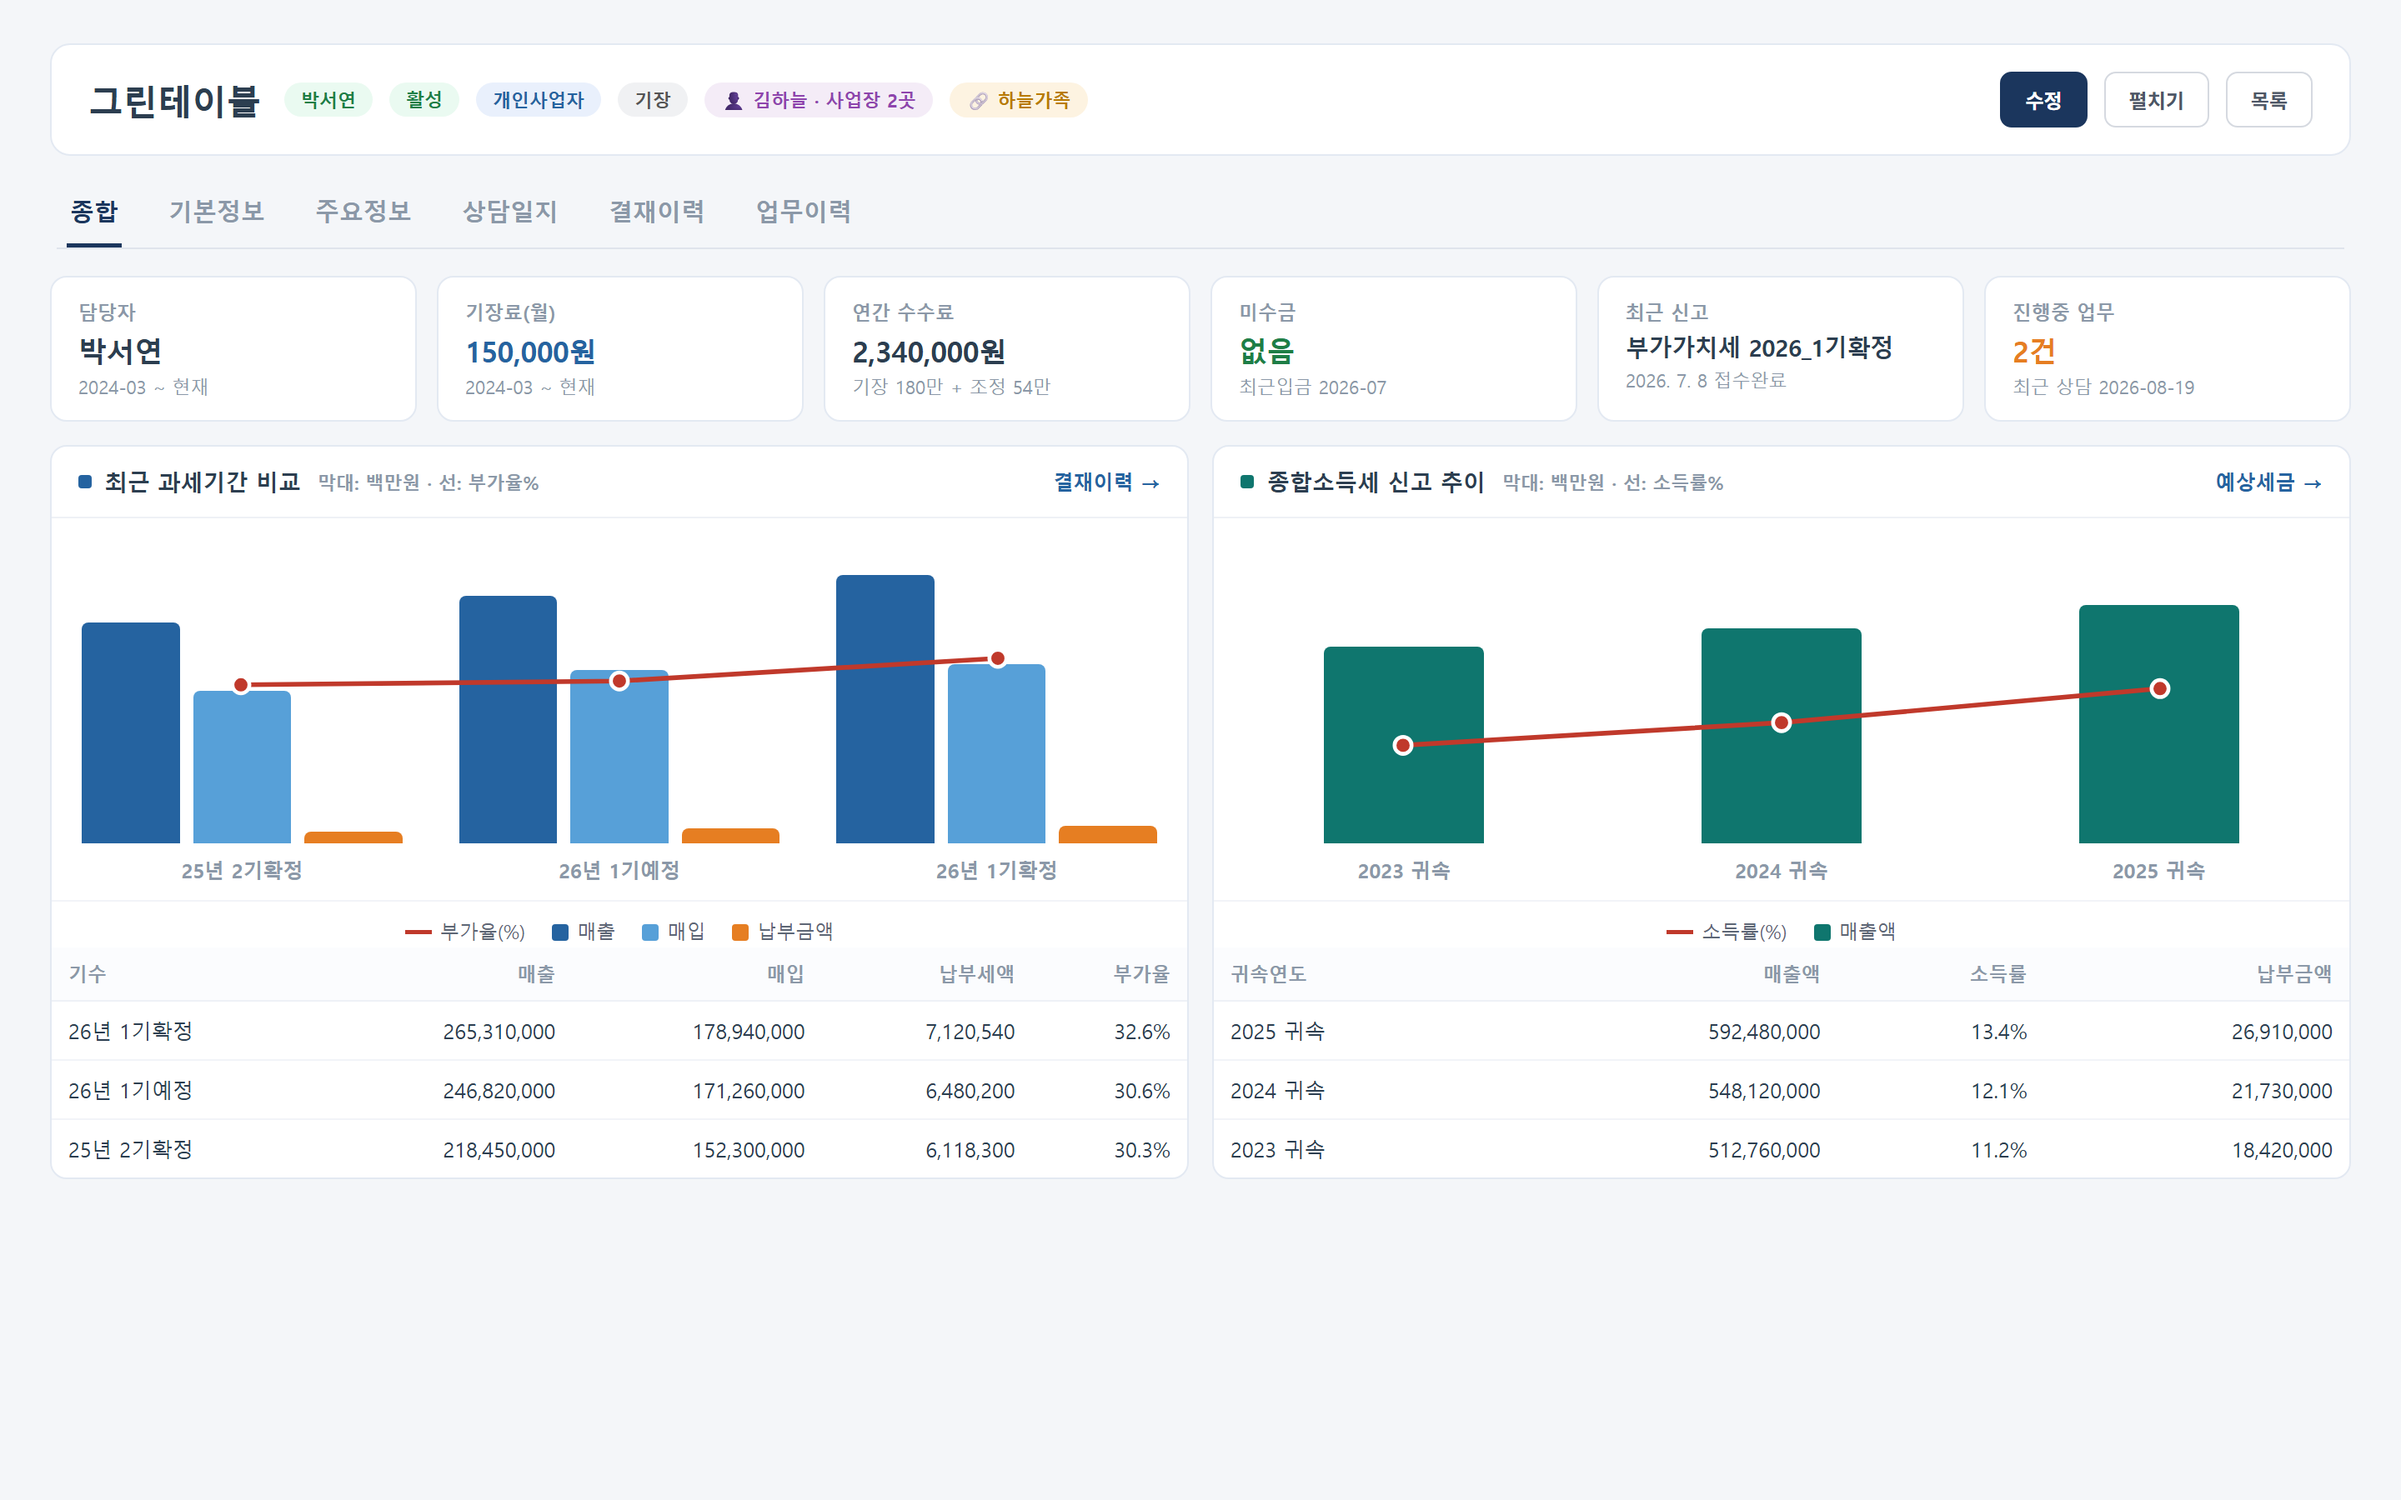
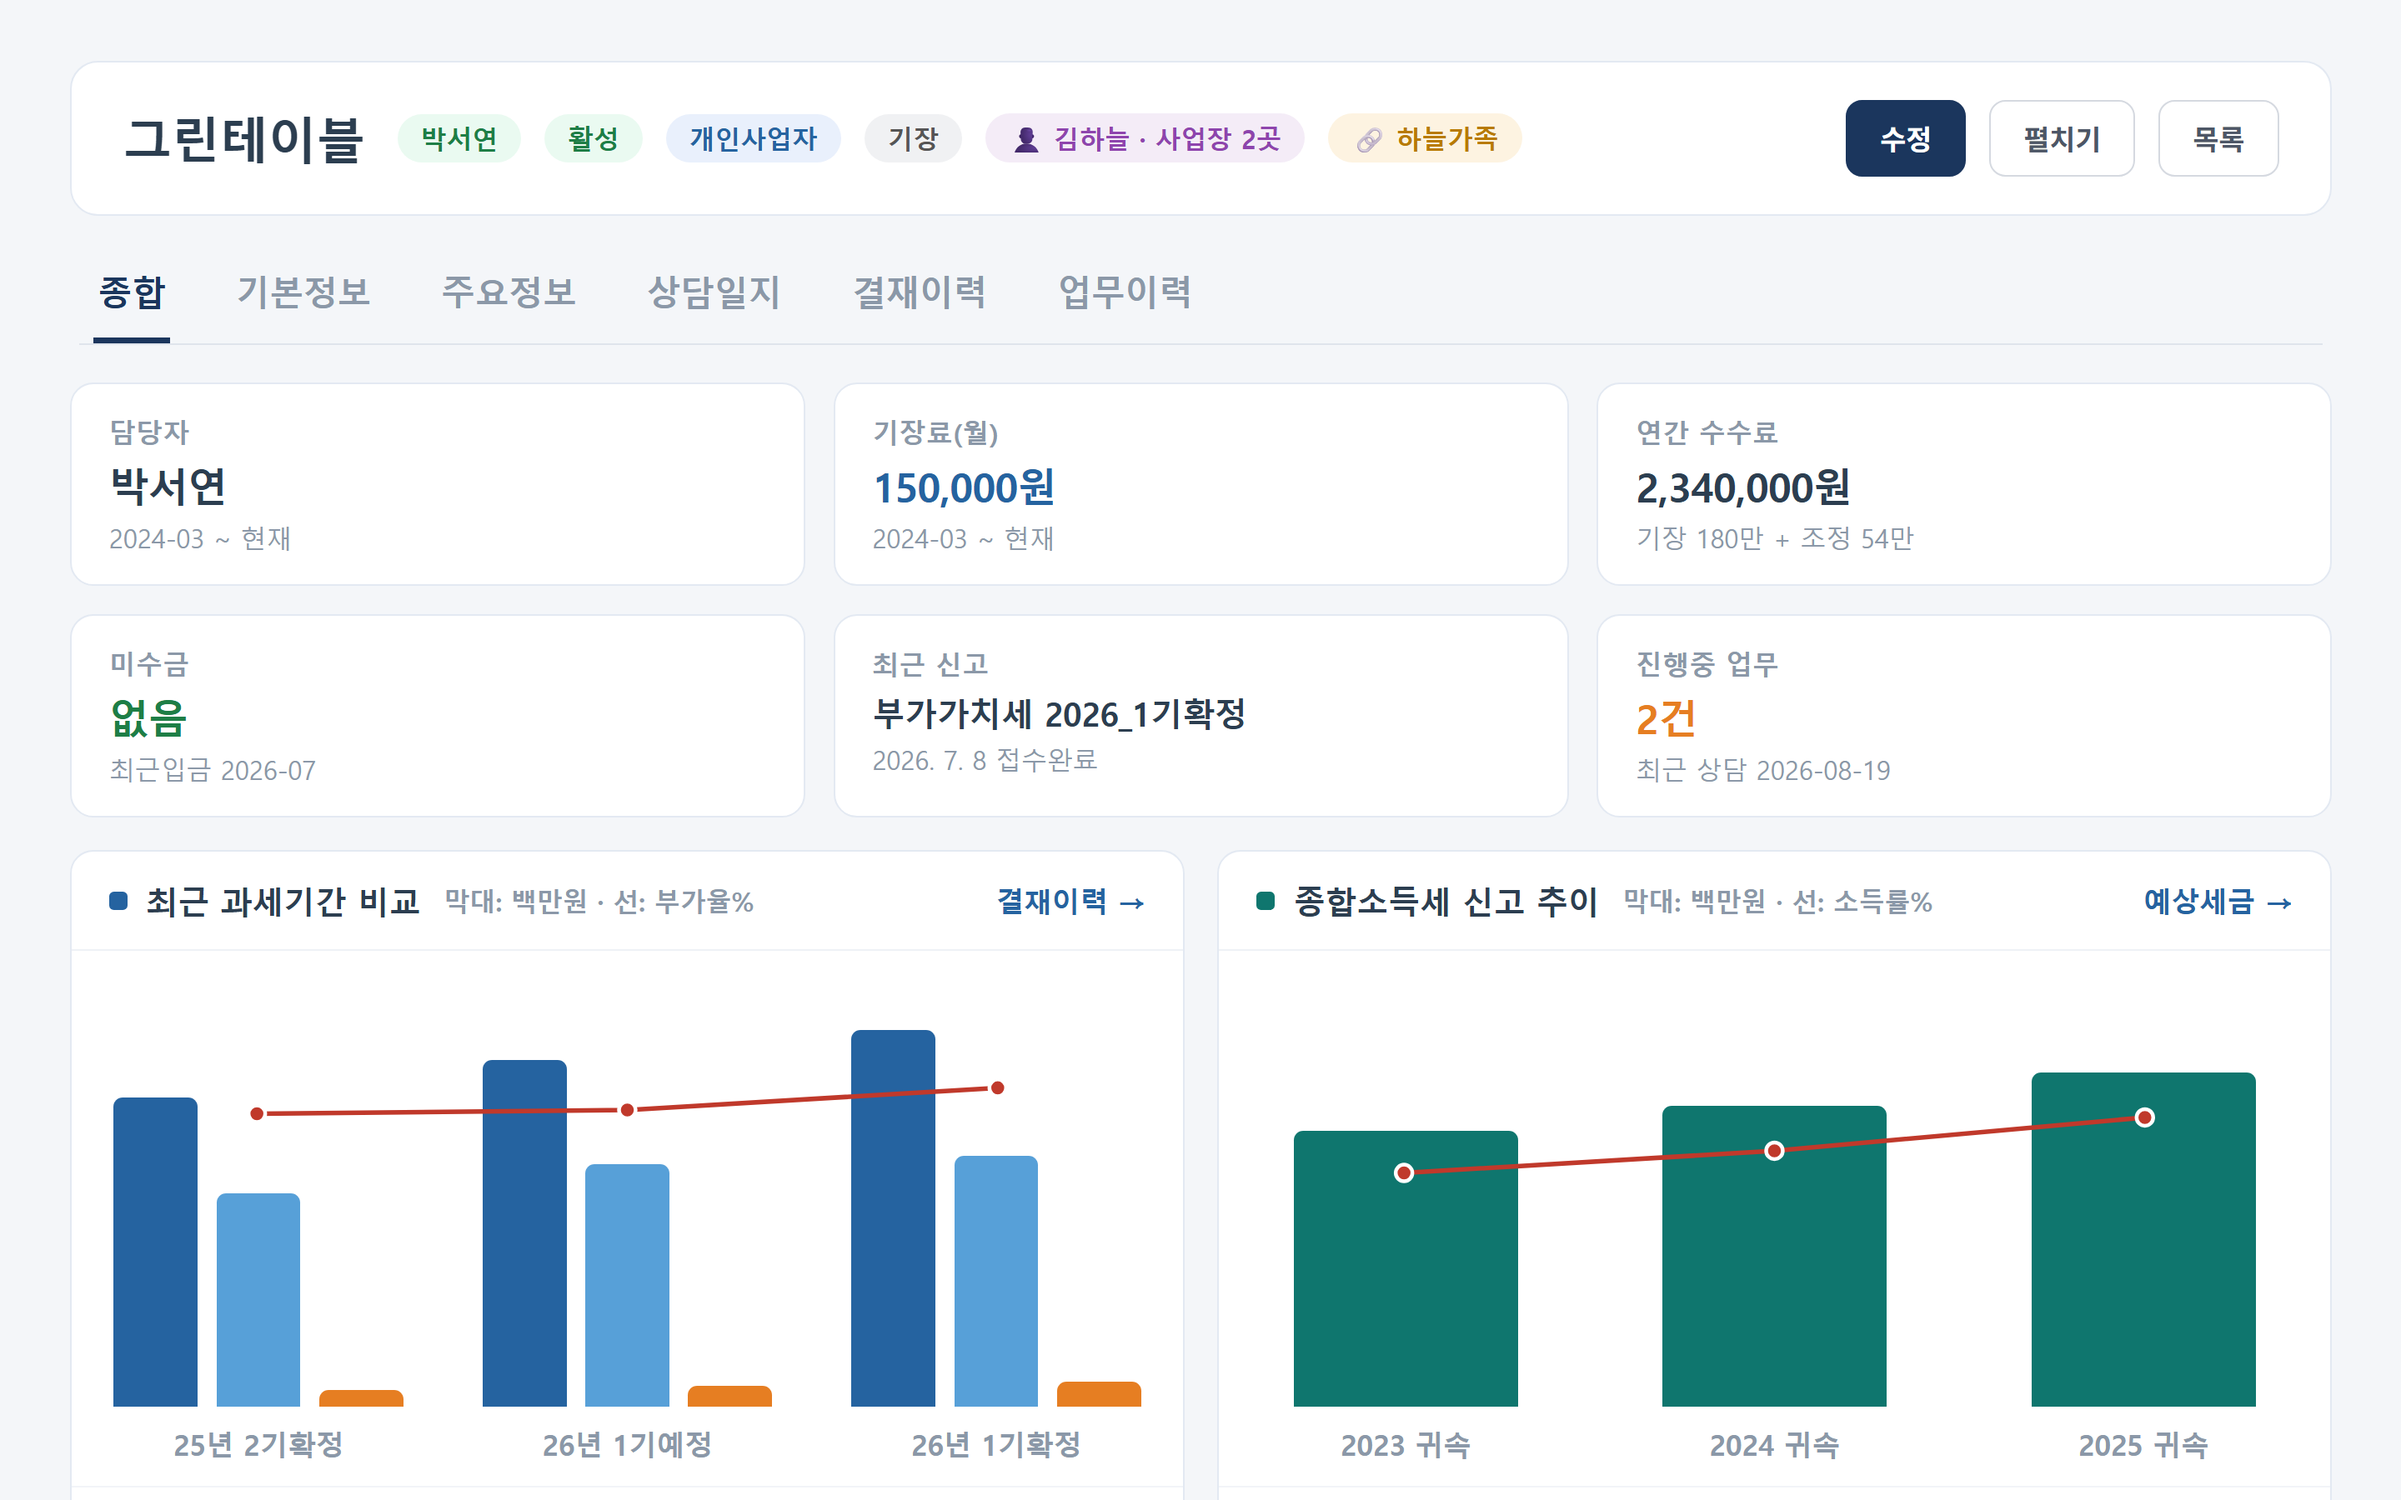
03 고객정보 캡처 가독성 개선 — 목업을 1.4배 확대 재캡처(글자 크게), 결재자 이름은 HTML 단계에서 차정범·한진식으로 교체, 종합화면은 차트 중심으로·상담일지 5건으로 정리, 스택 비율 8/5

diff --git a/index.html b/index.html
@@ -45,7 +45,7 @@
 <link rel="preconnect" href="https://fonts.gstatic.com" crossorigin>
 <link href="https://fonts.googleapis.com/css2?family=Noto+Serif+KR:wght@500;700;900&display=swap" rel="stylesheet">
 <link rel="stylesheet" as="style" crossorigin href="https://cdn.jsdelivr.net/gh/orioncactus/pretendard@v1.3.9/dist/web/variable/pretendardvariable-dynamic-subset.min.css">
-<link rel="stylesheet" href="style.css?v=14">
+<link rel="stylesheet" href="style.css?v=15">
 </head>
 <body>
 
@@ -185,19 +185,19 @@
       <div class="stack stack-prog" title="누르면 다음 화면이 보입니다">
         <div class="shot">
           <div class="shot-bar"><i></i><i></i><i></i><span>신고서 결재 이력</span></div>
-          <img src="assets/crm/crm_appr.png" alt="신고서 결재 이력 화면 — 부가세·종합소득세 신고마다 담당자와 세무사 2단계 결재 기록이 남는 화면" width="2880" height="1800" loading="lazy">
+          <img src="assets/crm/crm_appr.png?v=2" alt="신고서 결재 이력 화면 — 부가세·종합소득세 신고마다 담당자와 세무사 2단계 결재 기록이 남는 화면" width="2880" height="1800" loading="lazy">
         </div>
         <div class="shot">
           <div class="shot-bar"><i></i><i></i><i></i><span>업무이력</span></div>
-          <img src="assets/crm/crm_work.png" alt="업무이력 화면 — 사업자등록 신청, 세액공제 검토, 신고 업무가 등록일과 완료일로 관리되는 화면" width="2880" height="1800" loading="lazy">
+          <img src="assets/crm/crm_work.png?v=2" alt="업무이력 화면 — 사업자등록 신청, 세액공제 검토, 신고 업무가 등록일과 완료일로 관리되는 화면" width="2880" height="1800" loading="lazy">
         </div>
         <div class="shot">
           <div class="shot-bar"><i></i><i></i><i></i><span>상담일지</span></div>
-          <img src="assets/crm/crm_log.png" alt="상담일지 화면 — 전화·방문·카톡 상담 내용이 날짜, 담당자와 함께 기록되는 화면" width="2880" height="1800" loading="lazy">
+          <img src="assets/crm/crm_log.png?v=2" alt="상담일지 화면 — 전화·방문·카톡 상담 내용이 날짜, 담당자와 함께 기록되는 화면" width="2880" height="1800" loading="lazy">
         </div>
         <div class="shot">
           <div class="shot-bar"><i></i><i></i><i></i><span>고객 종합</span></div>
-          <img src="assets/crm/crm_overview1.png" alt="고객 종합 화면 — 담당자, 기장료, 과세기간 비교 차트, 종합소득세 신고 추이가 한눈에 보이는 화면" width="2880" height="1800" loading="lazy">
+          <img src="assets/crm/crm_overview1.png?v=2" alt="고객 종합 화면 — 담당자, 기장료, 과세기간 비교 차트, 종합소득세 신고 추이가 한눈에 보이는 화면" width="2880" height="1800" loading="lazy">
         </div>
       </div>
       <p class="shot-note">실제 프로그램 화면입니다 (예시 데이터) · 누르면 다음 화면이 보입니다</p>

diff --git a/style.css b/style.css
@@ -82,8 +82,8 @@ body.menu-open .menu-btn span:nth-child(3){transform:translateY(-6px) rotate(-45
 .stack::before{content:"";display:block}
 .stack-rep::before{padding-top:90%}
 .stack-rep .shot img{width:100%;aspect-ratio:6/5;object-fit:cover;object-position:left top}
-.stack-prog .shot img{width:100%;aspect-ratio:9/5;object-fit:cover;object-position:left top}
-.stack-prog::before{padding-top:64%}
+.stack-prog .shot img{width:100%;aspect-ratio:8/5;object-fit:cover;object-position:left top}
+.stack-prog::before{padding-top:70%}
 .stack .shot{position:absolute;right:0;top:0;width:84%;transition:transform .35s ease,opacity .35s ease,box-shadow .35s ease}
 .stack .shot:nth-last-child(1){transform:translate(0,44px);z-index:4}
 .stack .shot:nth-last-child(2){transform:translate(-28px,22px);z-index:3;opacity:.95}

diff --git a/column/_template.html b/column/_template.html
@@ -46,7 +46,7 @@
 <link rel="preconnect" href="https://fonts.gstatic.com" crossorigin>
 <link href="https://fonts.googleapis.com/css2?family=Noto+Serif+KR:wght@600;700;900&display=swap" rel="stylesheet">
 <link rel="stylesheet" as="style" crossorigin href="https://cdn.jsdelivr.net/gh/orioncactus/pretendard@v1.3.9/dist/web/variable/pretendardvariable-dynamic-subset.min.css">
-<link rel="stylesheet" href="../style.css?v=14">
+<link rel="stylesheet" href="../style.css?v=15">
 </head>
 <body>
 

diff --git a/column/index.html b/column/index.html
@@ -15,7 +15,7 @@
 <link rel="preconnect" href="https://fonts.gstatic.com" crossorigin>
 <link href="https://fonts.googleapis.com/css2?family=Noto+Serif+KR:wght@600;700;900&display=swap" rel="stylesheet">
 <link rel="stylesheet" as="style" crossorigin href="https://cdn.jsdelivr.net/gh/orioncactus/pretendard@v1.3.9/dist/web/variable/pretendardvariable-dynamic-subset.min.css">
-<link rel="stylesheet" href="../style.css?v=14">
+<link rel="stylesheet" href="../style.css?v=15">
 </head>
 <body>
 

diff --git a/faq/index.html b/faq/index.html
@@ -26,7 +26,7 @@
 <link rel="preconnect" href="https://fonts.gstatic.com" crossorigin>
 <link href="https://fonts.googleapis.com/css2?family=Noto+Serif+KR:wght@500;700;900&display=swap" rel="stylesheet">
 <link rel="stylesheet" as="style" crossorigin href="https://cdn.jsdelivr.net/gh/orioncactus/pretendard@v1.3.9/dist/web/variable/pretendardvariable-dynamic-subset.min.css">
-<link rel="stylesheet" href="../style.css?v=14">
+<link rel="stylesheet" href="../style.css?v=15">
 </head>
 <body>
 
